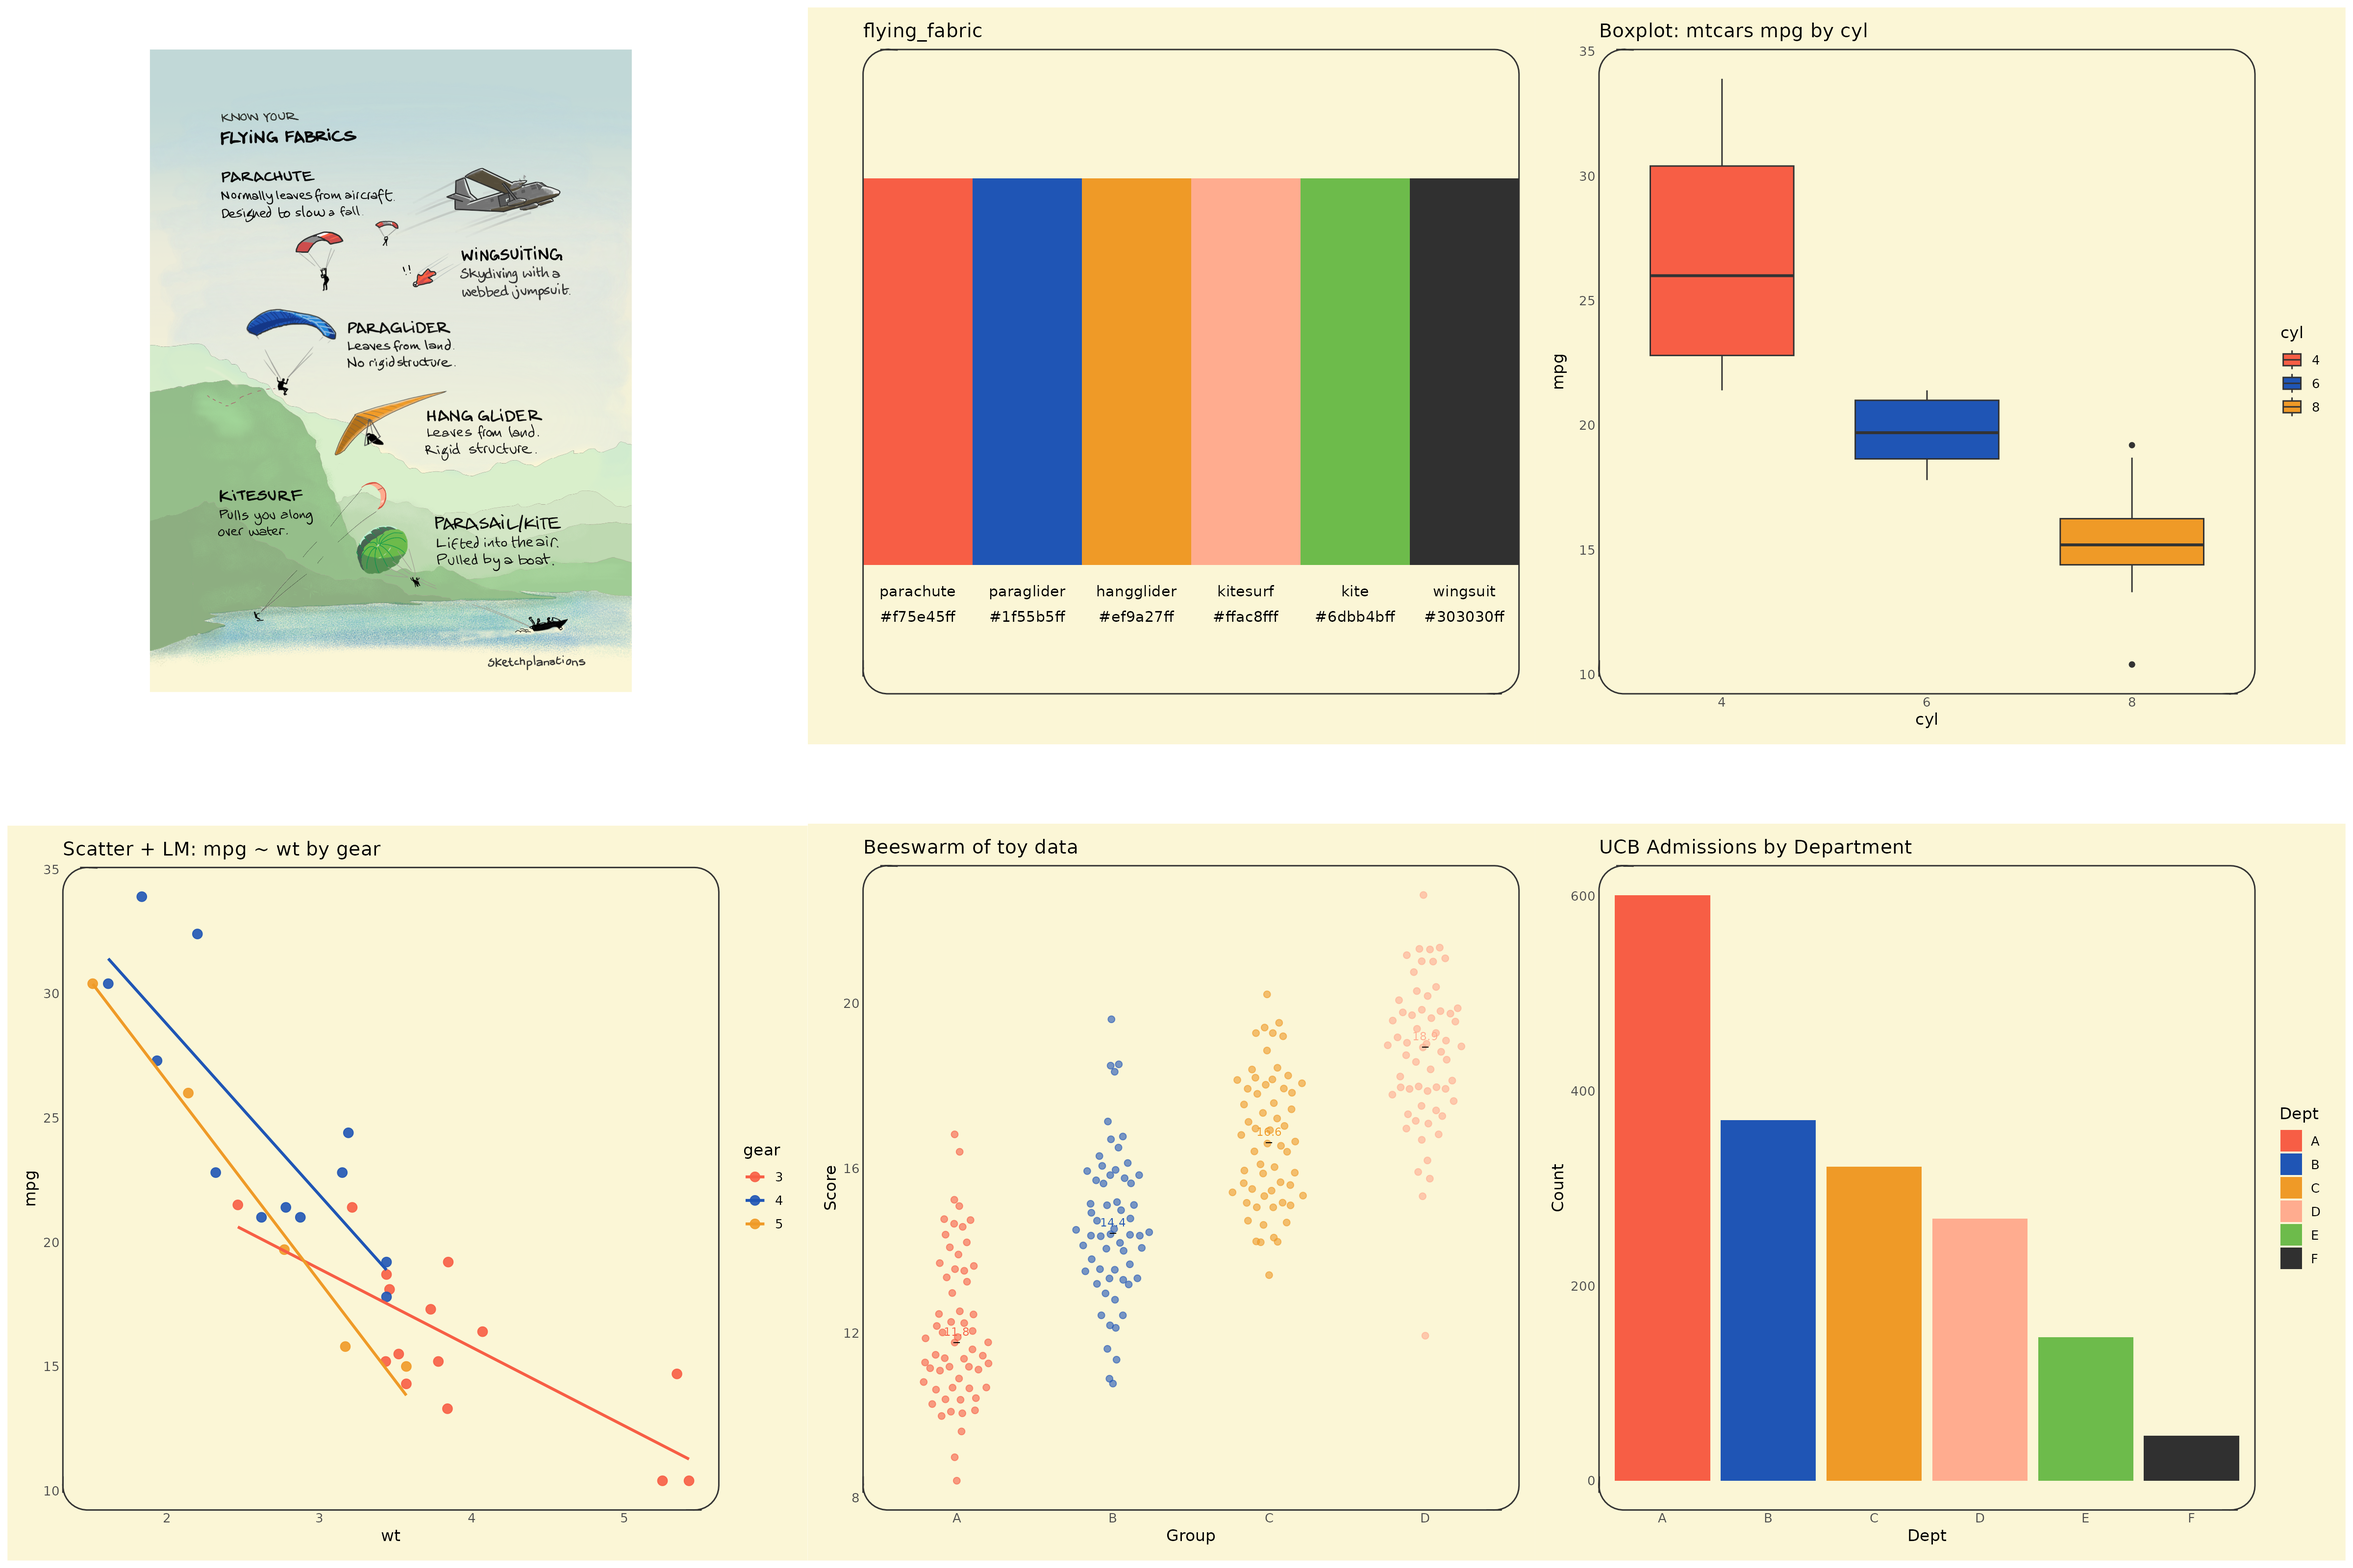
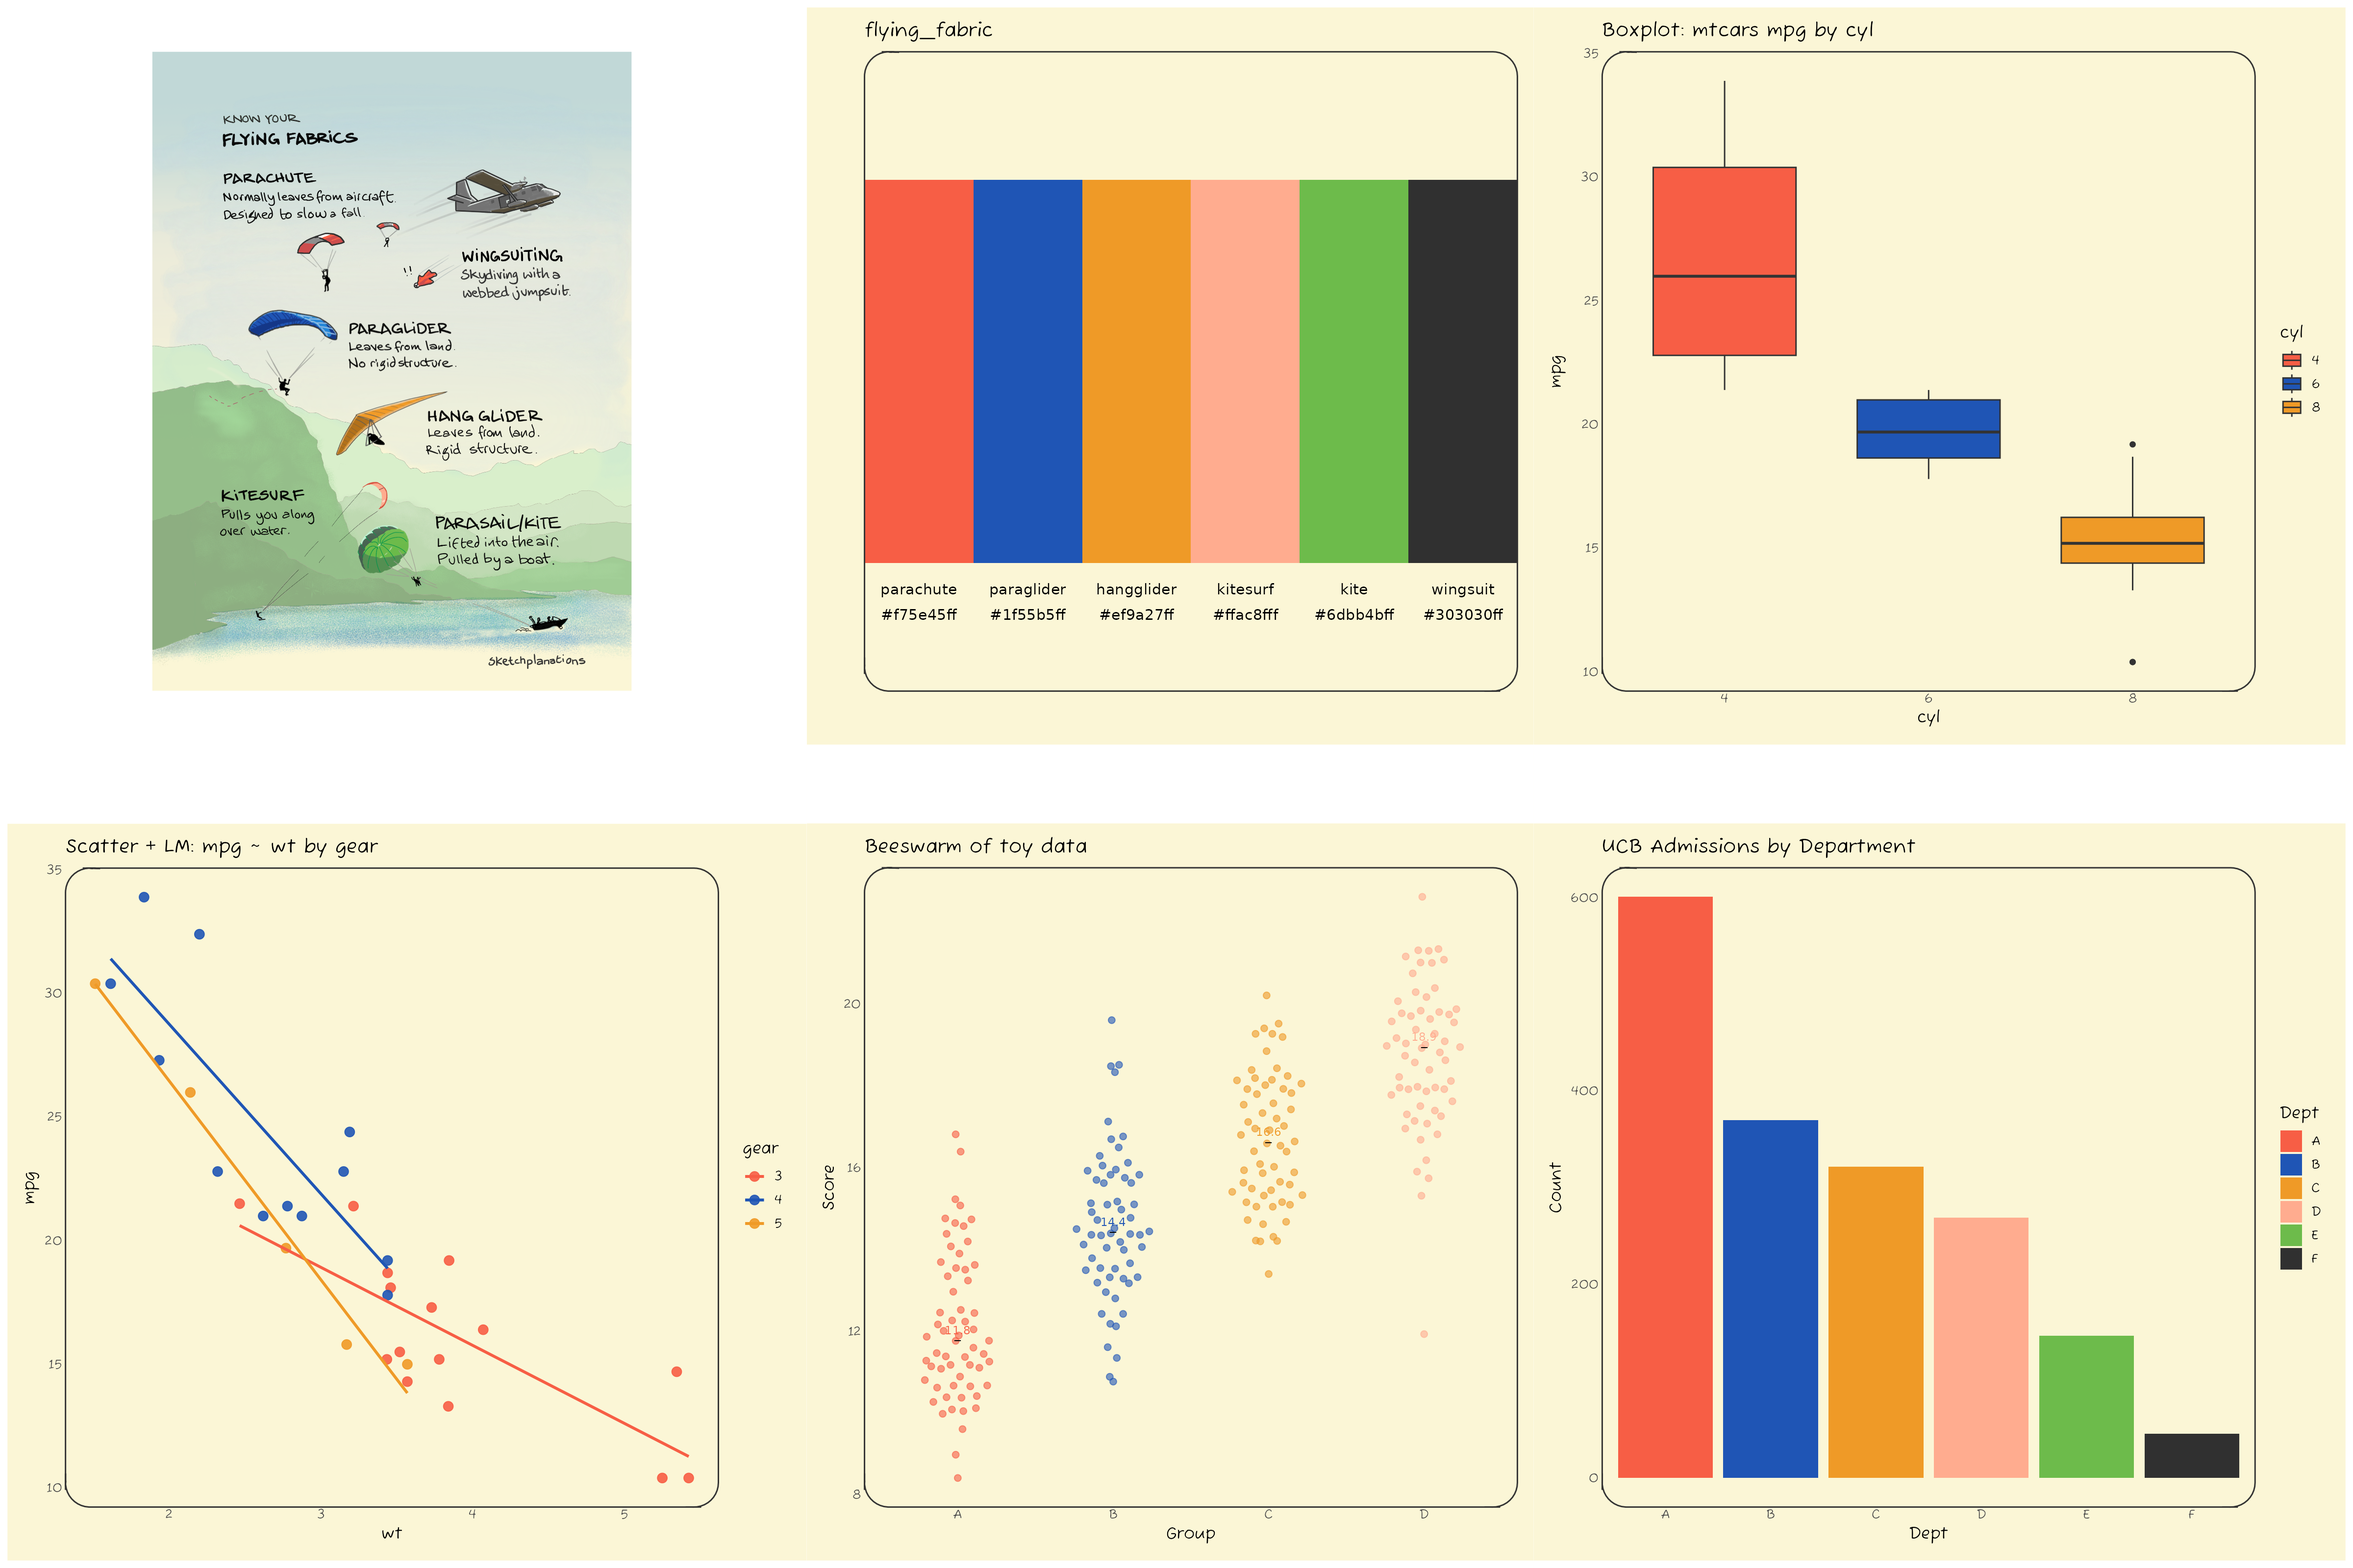
update readme and docs

diff --git a/README.md b/README.md
@@ -55,6 +55,10 @@ plot_box_mtcars("suit") + theme_card(radius_panel = 18)
 
 <img src="man/figures/README-sketch-1.png" width="100%" style="display: block; margin: auto;" />
 
+> Typography matches exactly in saved figures or Rmd configured with
+> `dev = "ragg_png"`. For interactive plotting,
+> `call jonohey_use_ragg()` or install Fuzzy Bubbles system-wide.
+
 ``` r
 # Make it more cartoonish
 plot_box_mtcars("suit") + theme_axes_wiggle()
@@ -145,6 +149,25 @@ You can find the source for the sketch inspiring the palette at
 ![](man/figures/surfing.png)
 
 ------------------------------------------------------------------------
+
+## Using ragg for consistent typography
+
+Since we provide a custom font (“Fuzzy Bubbles”) to match a sketchy
+look, we recommend using the `ragg` graphics device for saving plots to
+ensure consistent typography. You can do this by calling
+`jonohey_use_ragg()` once in your R session, or by specifying
+`dev = "ragg_png"` in your R Markdown document’s chunk options.
+
+In Rstudio, you can also set `ragg` as the default graphics device in
+the Global Options under the “General” section. Check the [Ragg’s
+documentation](https://ragg.r-lib.org/index.html?q=rstu#use-ragg-in-rstudio)
+for more details.
+
+In Positron, it seems that `ragg` is used by default if ragg \>= 1.4
+(see [this PR](https://github.com/posit-dev/ark/pull/763)). That’s why
+we require ragg \>= 1.4 in the DESCRIPTION. We have tested
+`jonohey_use_ragg()` and it seems to work, but the scaling is worse than
+in RStudio.
 
 ## Issues
 
